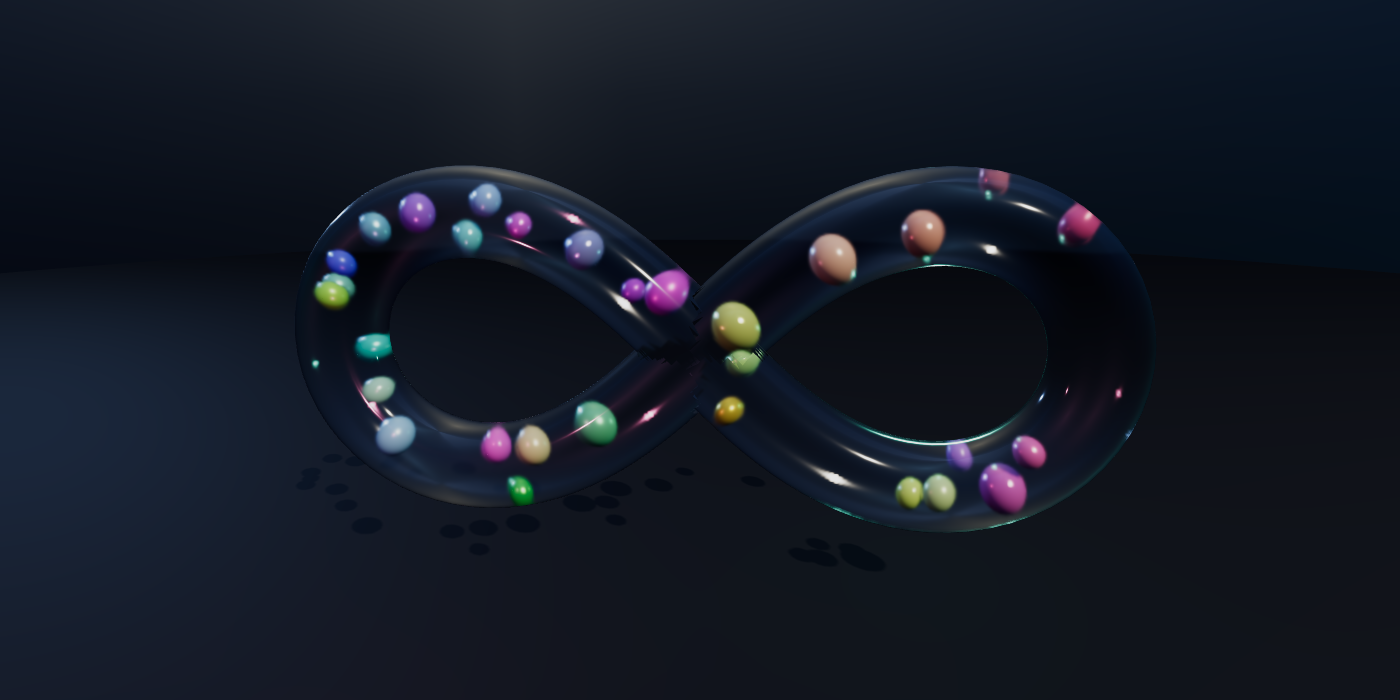
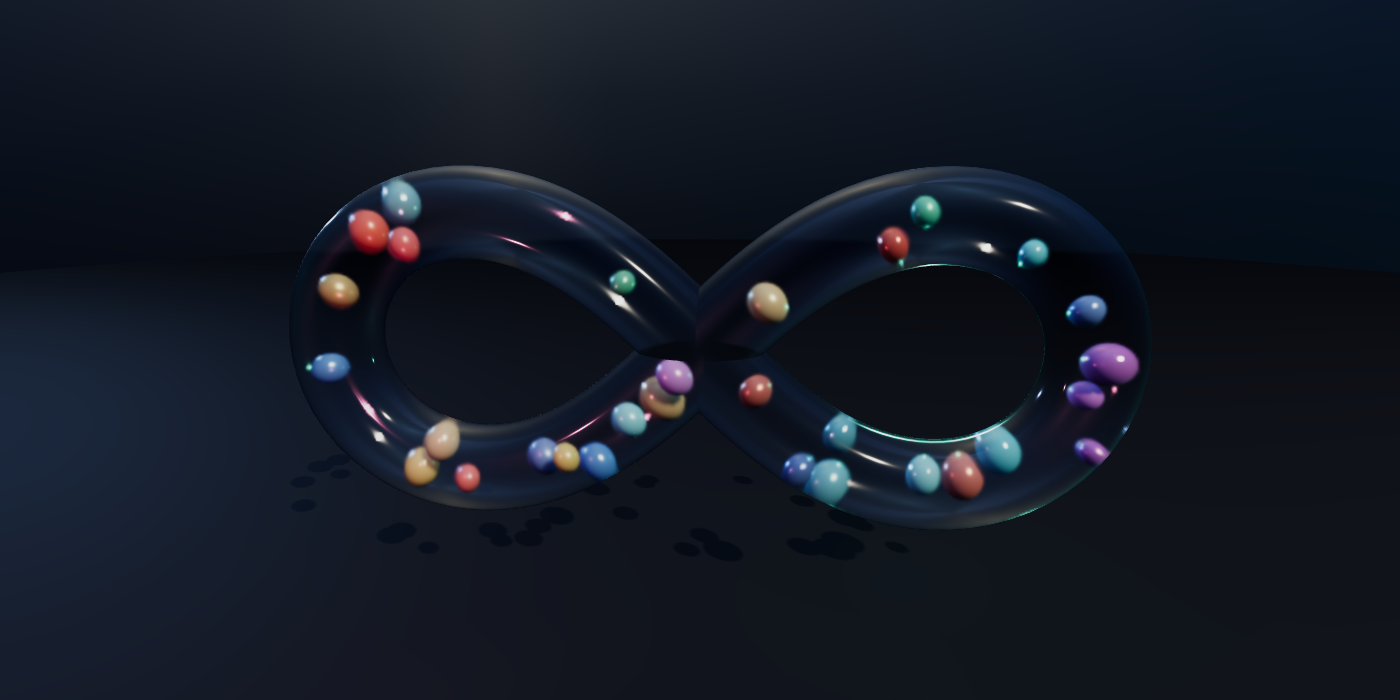
Bring the docs back in line with the page, and make the hero image reproducible
The same audit as the header, applied to everything else that describes the
page. Most of what was stale was stale because a feature landed and its
documentation did not.

Wrong claims, fixed:

  - package.json still described a tube swept along a Bernoulli lemniscate
    with 30 marbles. Now a self-crossing curve, no count, and the keywords
    name the rosettes too.
  - The Rendering section claimed hues are spread over the whole colour
    wheel as i/n. That stopped being true when the palette landed; there are
    six deliberate hues now, hashed from the marble index, and the section
    says why both of those are choices rather than accidents.
  - Nothing anywhere mentioned that all the marbles are one InstancedMesh,
    which is the largest change the render has had: 67 draw calls to 9.
  - Nothing mentioned the quality switch. It has a Controls row now, a key
    (Q) and a note on what each setting drops.
  - "the three camera poses the benchmark uses" — there are four. The page's
    comment said the same thing. Both corrected, and bench/README.md now
    tabulates all four with what each is for, including why `junction` sits
    uncomfortably close: at its first radius of 12.3 a visibly broken
    junction rim still scored 0.98993 and passed.
  - bench/README.md's three.js rejection record reads as current numbers but
    predates instancing and the fourth pose. Annotated as history.

Figures re-measured rather than guessed. Physics cost is 0.16 ms/step, not
[…]

diff --git a/index.html b/index.html
@@ -1896,7 +1896,9 @@ for (const b of document.querySelectorAll('[data-curve]')) {
   b.addEventListener('click', () => setCurve(b.dataset.curve));
 }
 
-// The three poses the benchmark uses, which is why they are known to frame well.
+// Three of the four poses the benchmark uses, which is why they are known to
+// frame well. The fourth sits close inside the junction: it exists to give the
+// visual gate something hard to look at, and it is not a view worth offering.
 const POSES = { front: [6, 12, 48], oblique: [34, 20, 30], crossing: [1, 5, 15] };
 for (const b of document.querySelectorAll('[data-pose]')) {
   b.addEventListener('click', () => {

diff --git a/README.md b/README.md
@@ -6,7 +6,8 @@
 [![three.js](https://img.shields.io/badge/three.js-0.169.0-black.svg)](https://threejs.org/)
 
 A [Three.js](https://threejs.org/) scene in a **single `index.html`**: a closed **glass tube swept
-along a self-intersecting curve**, with 30 marbles of different colours and shades loose inside it.
+along a self-intersecting curve**, with marbles of different colours and shades loose inside it — 30
+of them by default, and anywhere from 2 to 40.
 The marbles fly freely in 3D, bounce elastically off each other and off the inner wall of the tube,
 and pass through the open junctions where the tube crosses itself.
 
@@ -126,14 +127,14 @@ physics — nothing here knows which curve it is.
 The nearest point comes from a polyline of evenly spaced samples — 300 on the lemniscate, 443 and 487
 on the longer spines — then a projection onto the two chords touching the winning sample, which turns
 the sampling error from `O(step)` into `O(step²·curvature)`. Brute force for 30 marbles costs about
-0.15 ms per step, so there is no spatial index.
+0.16 ms per step, so there is no spatial index.
 
-That last figure was 0.10 ms before the spine became switchable, and the 50% is worth naming rather
+That last figure was 0.10 ms before the spine became switchable, and the 60% is worth naming rather
 than hiding. With a fixed curve the sample count was a compile-time constant and the engine could
 unroll the loop against it; as a value a spine change can alter, it cannot. Freezing the count back
 recovers most of the gap (0.81 µs per call against 1.11, from a 0.73 baseline). Getting it properly
 would mean generating a specialised copy of the loop per curve at run time, which is not a trade
-worth making here. In proportion it is 0.6% of a 60fps frame budget against 0.9%.
+worth making here. In proportion it is 0.6% of a 60fps frame budget against 1.0%.
 
 **Sub-steps.** Elastic impacts between unequal masses hand a lot of speed to the light marbles — they
 pass 39 units/s. Each frame is split so that no marble moves more than `0.45·rMin` per sub-step,
@@ -149,13 +150,26 @@ checking after every frame:
 | Check | Result |
 | --- | --- |
 | Marble outside the glass | worst excursion `1.8e-15` — never |
-| Marbles crossing between branches | 149–175 per run |
+| Marbles crossing between branches | 155–188, five runs |
 | Total energy, `restitution = 1` | drift 0.000000% |
 | Allocation per step | 0 |
-| Physics cost | 0.15 ms/step |
+| Physics cost | 0.16 ms/step |
 
 Containment is re-checked **per spine**, not only on the default one — see
 [Other spines](#other-spines) for all three.
+
+The crossing count is the one figure here that moves between runs, and it is worth saying why rather
+than quoting an average. The harness pauses the page and then drives `step()` itself, but the page has
+already been running on wall-clock deltas for however long the load took, so the state the count starts
+from depends on how many real frames fitted into that moment. Five runs of identical code gave 155, 159,
+170, 179 and 188. That is why the gate is a floor — 120 — and not an equality: what it asserts is that
+marbles still pass between the branches in quantity, which is the thing that would go to zero if a
+junction ever sealed. The other four rows are exact and repeat to the digit.
+
+Loading the page with `#s=0` removes the variance entirely — the time scale starts at zero, so nothing
+advances until the measurement asks it to — which is how the per-spine table below gets identical
+numbers across runs and how `npm run preview` produces identical bytes. Teaching the harness the same
+trick would tighten `LOBE_CHANGES` from a floor into an equality, and is the obvious next change to it.
 
 One known approximation, measured: `TubeGeometry` is a 56-gon inscribed in the true cylinder, so its
 flat faces sit at `2.3962` instead of `2.4`. A marble pressed against the analytic wall can therefore
@@ -171,10 +185,35 @@ defect as acceptable is a good way to stop looking at it.
 - Equirectangular environment **generated at runtime** on a `<canvas>` (gradient plus soft light
   blobs) and prefiltered with `PMREMGenerator`: glass and polished marbles get something to reflect
   and refract without downloading an HDRI.
-- Hues spread over the whole colour wheel (`hue = i/n`), with saturation, lightness, `metalness`,
-  `roughness` and `clearcoat` all varied per marble.
+- **Six hues, not the whole wheel.** The hues used to be `i/n`, an even sweep of the colour circle.
+  Thirty marbles spaced evenly around it read as a test pattern: every hue present, none chosen, and
+  the muddy yellow-greens between the good colours getting equal billing. There are six now — coral,
+  amber, jade, cyan, deep blue, violet — unevenly spaced, each with its own saturation and lightness
+  window, because what looks right varies with hue: the amber has to be brighter and more saturated
+  than the deep blue to read as the same weight against a dark ground. Each is jittered slightly so
+  two marbles of one hue are not identical.
+- The swatch is **hashed from the marble index**, not cycled. Marbles are seeded evenly along the
+  spine by index, so `i % 6` would put the same colour at the same spacing all the way round — six
+  colours in strict rotation, which looks mechanical and breaks when the count is not a multiple of
+  six. The hash costs no random draw, so the arrangement and the velocities are bit-for-bit what they
+  were and only the colours moved.
+- `metalness`, `roughness`, `clearcoat` and `clearcoatRoughness` are varied per marble as well.
+- **All the marbles are one `InstancedMesh`.** Thirty separate meshes cost thirty draw calls in the
+  colour pass, thirty more filling the shadow map, and thirty more again in the extra pass the
+  glass's transmission forces — which is where nearly all of the frame's draw calls were going. An
+  `InstancedMesh` carries one material, though, and these marbles differ in finish as well as in
+  colour: colour rides along per-instance for free (`instanceColor`), and the other four values go in
+  as an instanced `vec4` patched into the standard physical shader with `onBeforeCompile`. So it is
+  still the picture that was there before, not forty identically polished balls — and the SSIM gate
+  is what keeps that claim honest. Measured: 67 draw calls down to **9**, and the frame time on the
+  CPU rasteriser the harness runs on down by 65%.
 - Key light with `PCFSoft` shadows, rim light, two coloured point lights, exponential fog,
   `ACESFilmicToneMapping`, pixel ratio capped at 2.
+- A **quality switch** (**Quality** / <kbd>Q</kbd>) trades the two things that cost the most on a
+  weak GPU: *fast* drops the pixel ratio to 1 and turns the shadow map off, *high* restores both.
+  It defaults to *fast* on a coarse pointer — a phone — and to *high* elsewhere, and it is the one
+  setting always written into the URL hash, because a link that left it out would not reproduce on
+  another machine.
 - `OrbitControls` with damping and a slow auto-orbit.
 
 ## Controls
@@ -191,6 +230,7 @@ defect as acceptable is a good way to stop looking at it.
 | Auto-orbit | **Spin** | <kbd>A</kbd> |
 | Reset (new colours and velocities) | **Reset** | <kbd>R</kbd> |
 | Ride the selected marble | **Ride a marble** | <kbd>F</kbd> |
+| Quality: high ⇄ fast | **Quality** | <kbd>Q</kbd> |
 | Inspect a marble | click it | — |
 | Fold the panel away | **▲ / ▼** | <kbd>M</kbd> |
 | Show/hide the HUD | — | <kbd>H</kbd> |
@@ -199,8 +239,9 @@ Four sliders: **Speed** scales time from 0 to 3×, **Marbles** from 2 to 40, **S
 range from 0.5× to 1.4×, and **Elastic** sets the restitution from 0.8 to 1. Changing the count or the
 size rebuilds the marbles; the other two take effect live.
 
-Under **more**: four presets (*Default*, *One heavy*, *Swarm*, *Marble run*), the three camera poses the
-benchmark uses, a PNG export, and **Copy link**.
+Under **more**: four presets (*Default*, *One heavy*, *Swarm*, *Marble run*), three of the four camera
+poses the benchmark uses — the fourth sits close inside the junction and is there to be a hard case for
+the gate, not a nice view — a PNG export, and **Copy link**.
 
 ### Other spines
 
@@ -216,10 +257,22 @@ other at distant arc positions. Both are curve-agnostic, so a new spine needs no
 | Clover | 3 | 86.6° | 155.0 | 1.90 R | 67 |
 
 All three are scaled to the same bounding radius, so the camera framing does not change between them.
-Measured over 60 simulated seconds each: no marble ever leaves the tube (worst excursion 1.8e-15,
-1.6e-15 and 1.3e-15 — floating-point noise), energy holds at 0.000000%, and junction crossings roughly
-double on the three-junction spines (392 and 383 against 198), so marbles really do pass through the new
-junctions rather than getting wedged in them.
+Measured with the harness's own gate loop — 90 simulated seconds, three runs per spine, containment
+re-checked every frame:
+
+| spine | crossings | escapes | worst excursion | energy drift |
+| --- | --- | --- | --- | --- |
+| Lemniscate | 154 | 0 | `1.78e-15` | 0.000000% |
+| Trefoil | 289 | 0 | `1.78e-15` | 0.000000% |
+| Clover | 286 | 0 | `2.00e-15` | 0.000000% |
+
+Three runs per spine, and every column repeated exactly — the page is loaded with `#s=0` so its own
+animation loop cannot advance the simulation before the measurement starts, which is what makes the
+crossing count reproducible here and not in the harness. The excursions are floating-point noise at the
+scale of the coordinates, not near-misses. Crossings run about 1.9 times higher on the three-junction
+spines, which is the number that matters: marbles really do pass through the new junctions rather than
+getting wedged in them, and a junction that had silently sealed would show up here as a collapse, not a
+wobble.
 
 Most candidate curves fail, and it is worth knowing why:
 
@@ -361,14 +414,28 @@ npm run serve        # http://localhost:8000
 npm run check        # pinned versions agree, structural tags balance
 npm run bench:gates  # physics non-regression gates, ~1 min
 npm run bench        # full measurement, writes bench/metrics.json, ~12 min
+npm run preview      # re-render docs/preview.png, the hero image above
 ```
+
+`npm run preview` is deterministic — same seed, same fixed number of simulation steps, the page loaded
+with the time scale at zero so its own animation loop cannot advance anything while the module loads.
+Rerun it and the bytes are identical; rerun it after a rendering change and the diff *is* the rendering
+change. Getting there took two fixes worth knowing about, because both apply to anything that screenshots
+this page: the idle orbit has to be stopped and the camera parked in the same evaluation as the render,
+or damping slides the view between the two; and the scene has to be rendered **twice**, because
+`transmission: 1` refracts a render target that is filled during a render, so the first render after the
+camera moves shows the glass a backdrop drawn from where the camera used to be. Without the second
+render, two runs of identical code differed across 6.9% of pixels.
 
 `npm run check` and `npm run bench:gates` are what CI runs on every push and pull request. The gates
 assert that no marble ever ends a step outside the glass, that kinetic energy does not drift with
-`restitution: 1`, and that marbles still cross between lobes. The render metrics are deliberately not
-gated in CI — frame time carries ~27% run-to-run variance on a CPU rasteriser, and the SSIM
-references were rendered on a different machine. See [`bench/README.md`](bench/README.md) for what
-the harness can and cannot resolve.
+`restitution: 1`, and that marbles still cross between lobes — a floor, not an equality, for the reason
+given above. The render metrics are deliberately not gated in CI: frame time carries ~27% run-to-run
+variance on a CPU rasteriser, and the reference screenshots are rendered on the maintainer's machine
+rather than on the runner, so both would be flaky rather than informative. Locally, on the machine the
+references came from, SSIM is exactly 1 at all four poses — which is what makes it worth running there,
+since any deviation at all is then a real change. See [`bench/README.md`](bench/README.md) for what the
+harness can and cannot resolve.
 
 Three.js is pinned in two places, `index.html`'s importmap and `package.json`'s devDependency. They
 must match; `npm run check` fails if they drift.

diff --git a/bench/README.md b/bench/README.md
@@ -72,15 +72,35 @@ far outside the harness's noise. 0.180.0, by contrast, measured pixel-identical 
 1.000), so the regression is somewhere between those two and a future upgrade should bisect that range.
 Physics is unaffected either way.
 
+Both of those were measured before the marbles were instanced and before the `junction` pose existed,
+which is why there are three SSIM values and why the draw-call figures start from 67 rather than
+today's count. The conclusion still holds — a rendering regression that large is not going to have
+been an artefact of the draw-call path — but the numbers are a record of that experiment, not
+current readings.
+
 A three upgrade therefore has to change `index.html`'s importmap and `package.json` together, and be
 checked with `npm run bench` before the references are touched.
 
 ## Reference images
 
-`bench/ref/*.png` are the baseline screenshots for the SSIM gate, at three fixed
+`bench/ref/*.png` are the baseline screenshots for the SSIM gate, at four fixed
 camera poses, taken after exactly 300 fixed-size simulation steps with the HUD
 hidden. Regenerate them only when a change to the render is intended:
 
 ```bash
 node bench/bench.mjs --write-ref
 ```
+
+The four poses:
+
+| pose | camera | radius | what it is for |
+| --- | --- | --- | --- |
+| `front` | `6, 12, 48` | 49.8 | the whole figure, the shot the page opens on |
+| `oblique` | `34, 20, 30` | 49.6 | the same figure lit from the side, so shading changes show |
+| `close` | `1, 5, 15` | 15.8 | near enough for one marble's finish to matter |
+| `junction` | `0, 2.7, 5.6` | 6.2 | inside the crossing, where the trim and the clip live |
+
+`junction` is deliberately uncomfortable. An earlier version of it sat at radius 12.3, and at that
+distance a genuinely broken junction rim — the sawtooth left by dropping whole triangles instead of
+clipping them — still scored 0.98993 and passed the gate. Pulled in to 6.2 the same defect scores
+0.95167 and fails. A pose that cannot fail is decoration.
